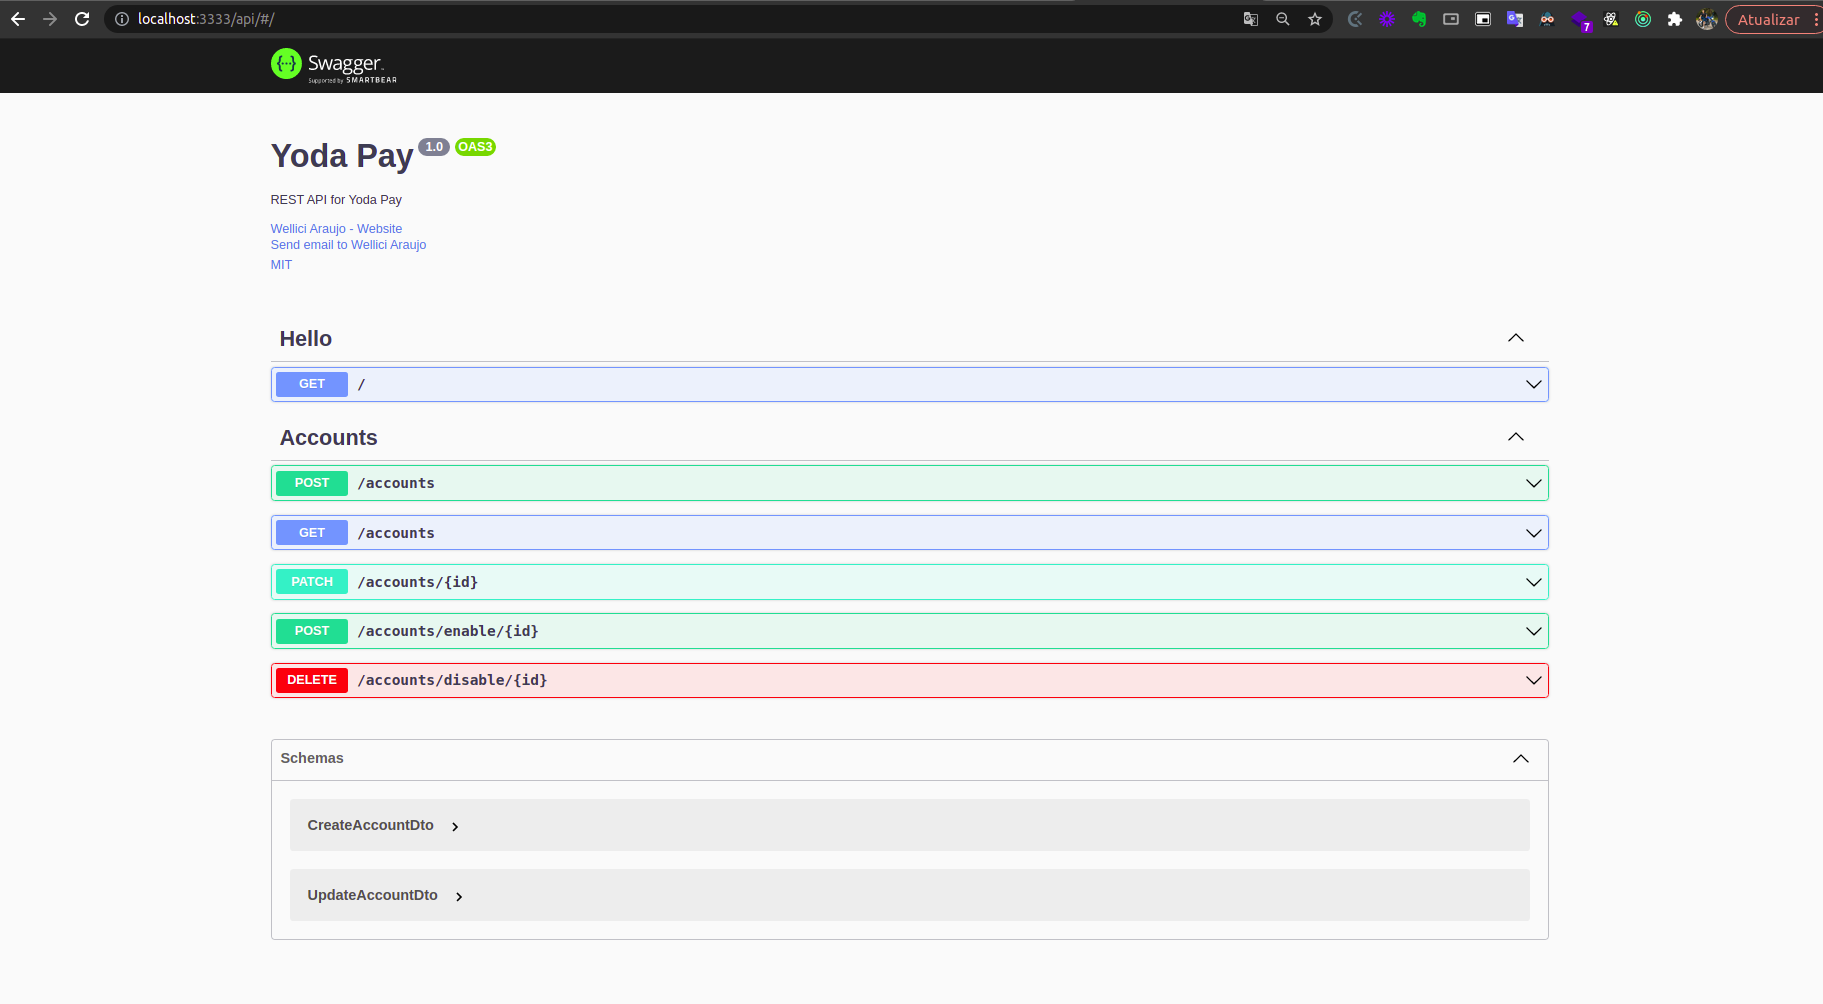
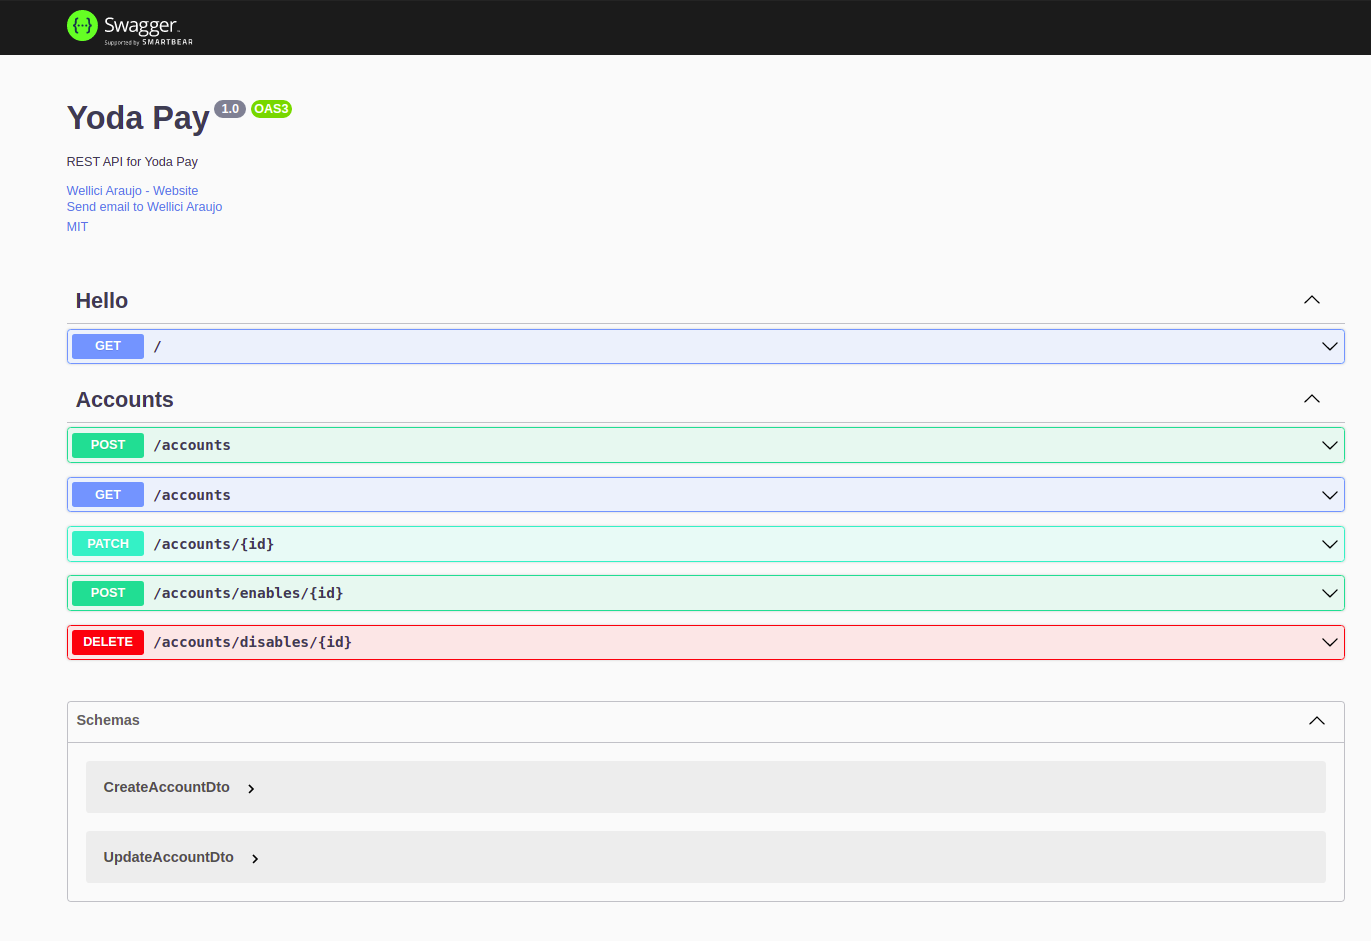
readme

diff --git a/src/modules/accounts/accounts.controller.ts b/src/modules/accounts/accounts.controller.ts
@@ -38,13 +38,13 @@ export class AccountsController {
   }
 
   @HttpCode(201)
-  @Post('enable/:id')
+  @Post('enables/:id')
   enable(@Param('id') id: string) {
     return this.accountsService.enable(+id);
   }
 
   @HttpCode(204)
-  @Delete('disable/:id')
+  @Delete('disables/:id')
   disable(@Param('id') id: string) {
     return this.accountsService.disable(+id);
   }

diff --git a/README.md b/README.md
@@ -35,30 +35,45 @@ This section should list any major frameworks/libraries used to bootstrap your p
 Instructions on setting up your project locally.
 To get a local copy up and running follow these simple example steps.
 
-### Prerequisites
+## Prerequisites
 
 List things you need to use the software and how to install them.
 
-#### Roadmap
+- ### [x] docker
+- ### [x] docker compose
 
-- [x] docker
-- [x] docker compose
+## Installation
 
-### Installation
+1 - Clone the repo
 
-1. Clone the repo
-   ```sh
-   git clone https://github.com/wdev007/challenge-backend-mutual-yoda-pay
-   ```
-2. Change the settings files
-   ```sh
-   cp .env.example .env
-   ```
+```sh
+git clone https://github.com/wdev007/challenge-backend-mutual-yoda-pay
+```
+
+2 - Change the settings files
+
+```sh
+cp .env.example .env
+```
 
 ## Usage
 
 ```sh
 docker-compose up
+```
+
+## Run migrations
+
+1 - enter the API container
+
+```sh
+docker-compose exec api sh
+```
+
+2 - run migrations
+
+```sh
+npm run typeorm migration:run
 ```
 
 ## Run unit tests
